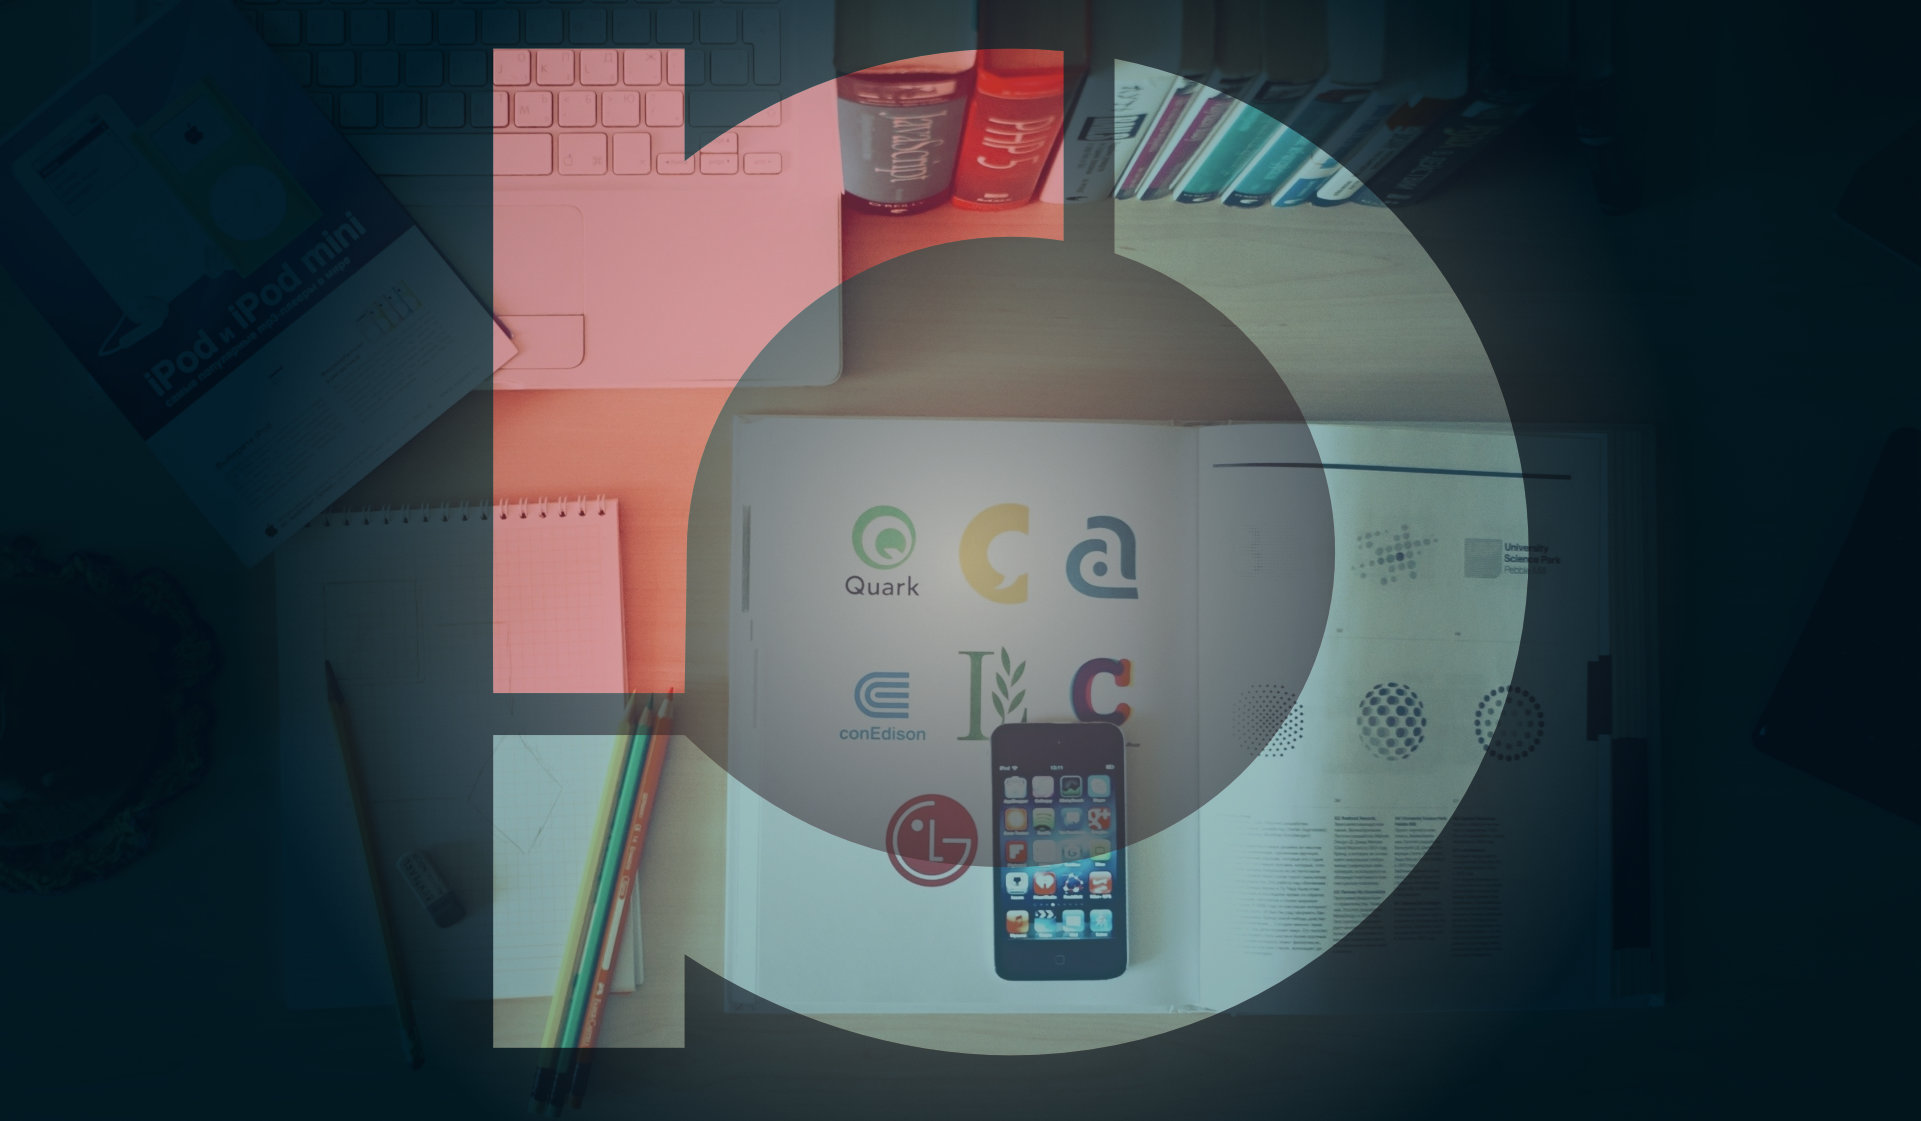
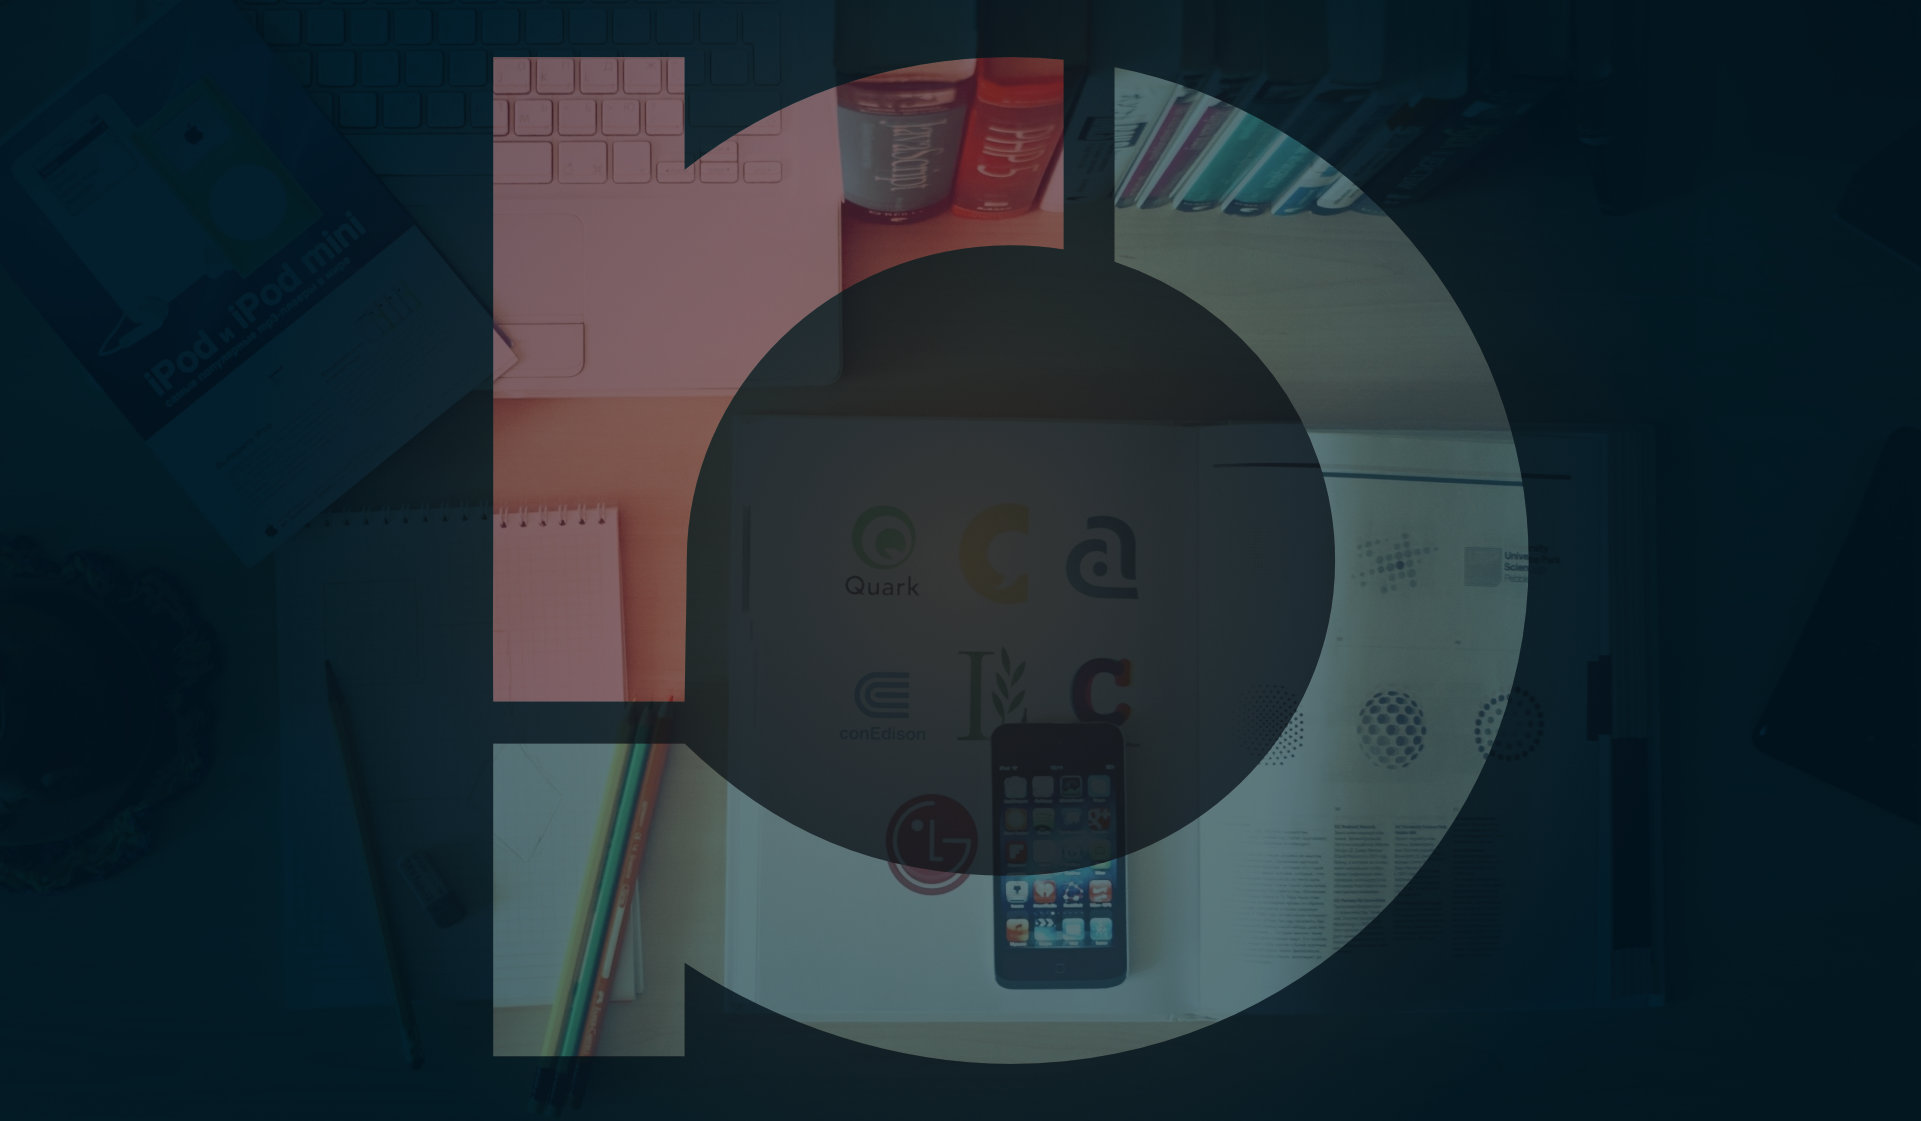
changed splash

diff --git a/_sass/styles/sites/_home.sass b/_sass/styles/sites/_home.sass
@@ -2,18 +2,52 @@
   .splasharea
     background-color: $ci-blue
     height: 100vh
+    overflow: hidden
+
+    .bg-logo
+      position: absolute
+      transform: rotate(180deg)
+      right: -340px
+      width: 1490px
+      top: -590px
+      opacity: .3
 
     .splashscreen-text-wrapper
       h2
         font-size: 2em
         line-height: 40px
-        font-weight: bold
+        font-weight: 300
         color: white
+        margin-top: 120px
         letter-spacing: 1px
-        text-shadow: 2px 2px 2px #777
+        text-shadow: 1px 1px 1px #333
 
         &.intro
           font-size: 3em
+
+    .mouse
+      background-color: transparent
+      border-radius: 30px
+      border: 4px solid white
+      bottom: 20px
+      height: 70px
+      left: 50%
+      position: absolute
+      transform: translate(-50%, 0)
+      width: 40px
+
+      .wrapper
+        position: relative
+        .mouse-wheel
+          position: absolute
+          top: 10px
+          left: 50%
+          transform: translate(-50%, 0)
+          width: 7px
+          height: 13px
+          border-radius: 20px
+          background-color: white
+          animation: MOUSE-WHEEL-BOUNCE 1000ms infinite
 
     .typewriter-wrapper-box
       font-size: 3em
@@ -32,3 +66,11 @@
     padding-top: 60px
     padding-bottom: 60px
     margin-bottom: 60px
+
+@keyframes MOUSE-WHEEL-BOUNCE
+  0%
+    top: 10px
+  90%
+    top: 17px
+  100%
+    top: 10px

diff --git a/_sass/styles/layout/_navbar.sass b/_sass/styles/layout/_navbar.sass
@@ -8,6 +8,7 @@ nav.navbar
       &.active a.nav-link
         color: white
   svg
+    padding-top: 10px
     transition: transform 200ms
 
     @media (max-width: 576px)
